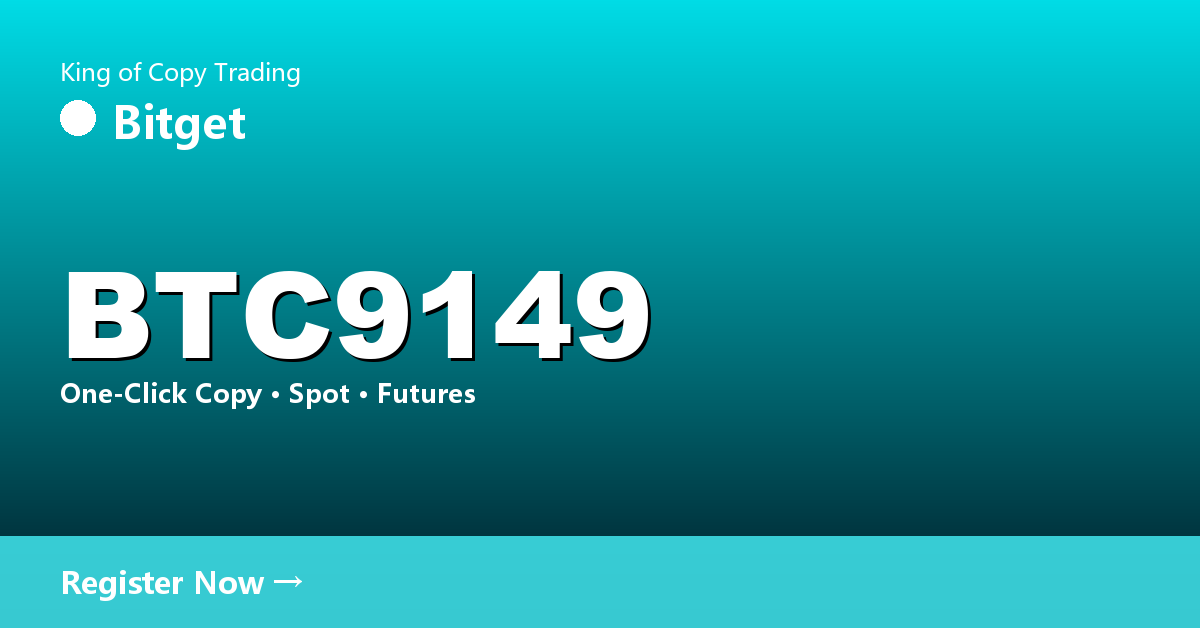
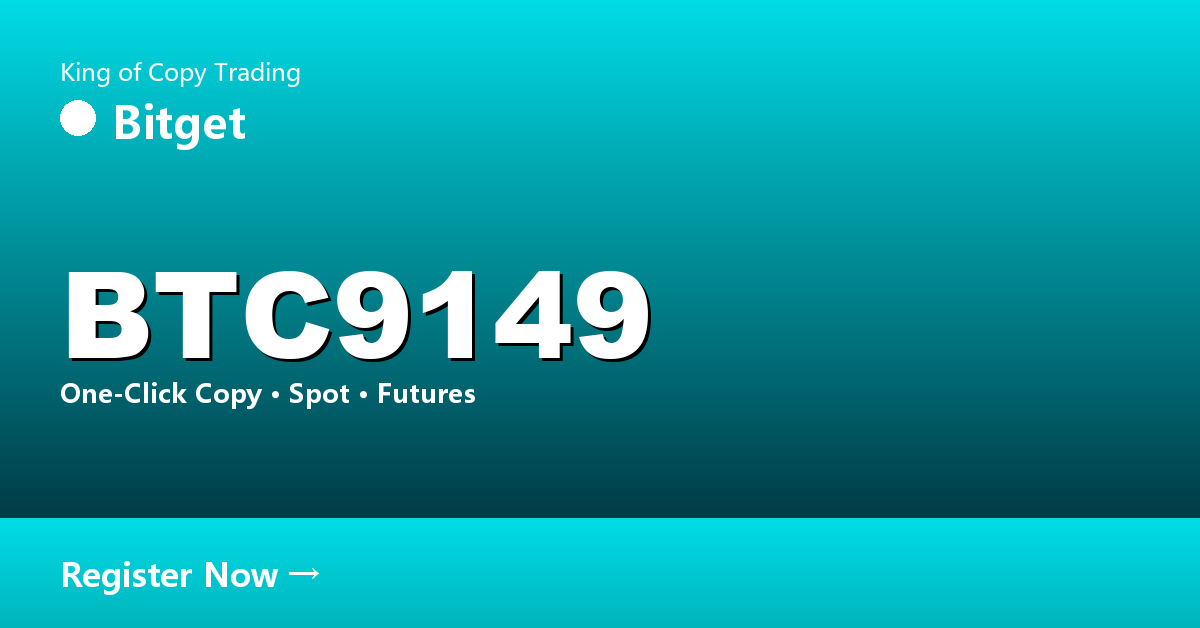
Update cards: brighter uniform brand CTA bar with Register arrow

Changed region(s): [[0.0, 0.8169, 1.0, 1.0]]

diff --git a/README.md b/README.md
@@ -1,20 +1,23 @@
 # Twitter Cards for 6 Crypto Exchanges
 
-Bilingual (CN/EN) Twitter large-card landing pages for referral links.
+Bilingual (CN/EN) Twitter `summary_large_image` cards + landing pages for 6 exchange referral codes.
 
-## Usage
-
-1. `python gen_twitter_cards.py` generates all images + landing pages.
-2. `python configure.py` replaces `{{BASE_URL}}` with your real GitHub Pages URL.
-3. Push to GitHub Pages and tweet the links.
-
-## Links
+## Live Links
 
 | Exchange | CN | EN |
 |---|---|---|
-| Binance | `/binance/` | `/binance/en/` |
-| OKX | `/okx/` | `/okx/en/` |
-| Bybit | `/bybit/` | `/bybit/en/` |
-| Bitget | `/bitget/` | `/bitget/en/` |
-| BIT | `/bit/` | `/bit/en/` |
-| MSX | `/msx/` | `/msx/en/` |
+| Binance | https://shirley44198-creator.github.io/twitter-cards/binance/ | https://shirley44198-creator.github.io/twitter-cards/binance/en/ |
+| OKX | https://shirley44198-creator.github.io/twitter-cards/okx/ | https://shirley44198-creator.github.io/twitter-cards/okx/en/ |
+| Bybit | https://shirley44198-creator.github.io/twitter-cards/bybit/ | https://shirley44198-creator.github.io/twitter-cards/bybit/en/ |
+| Bitget | https://shirley44198-creator.github.io/twitter-cards/bitget/ | https://shirley44198-creator.github.io/twitter-cards/bitget/en/ |
+| BIT | https://shirley44198-creator.github.io/twitter-cards/bit/ | https://shirley44198-creator.github.io/twitter-cards/bit/en/ |
+| MSX | https://shirley44198-creator.github.io/twitter-cards/msx/ | https://shirley44198-creator.github.io/twitter-cards/msx/en/ |
+
+## How to regenerate
+
+```bash
+python gen_twitter_cards.py
+python set_base.py
+```
+
+Then commit and push to GitHub Pages.
